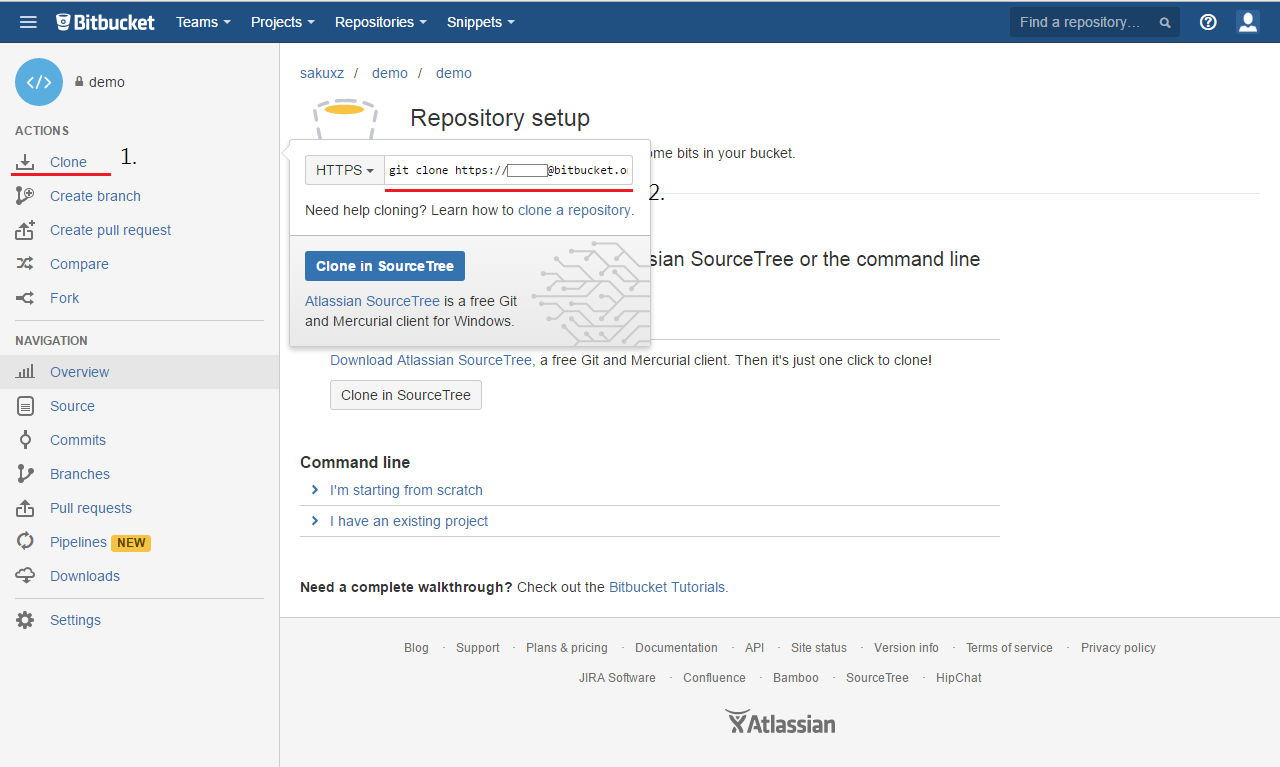
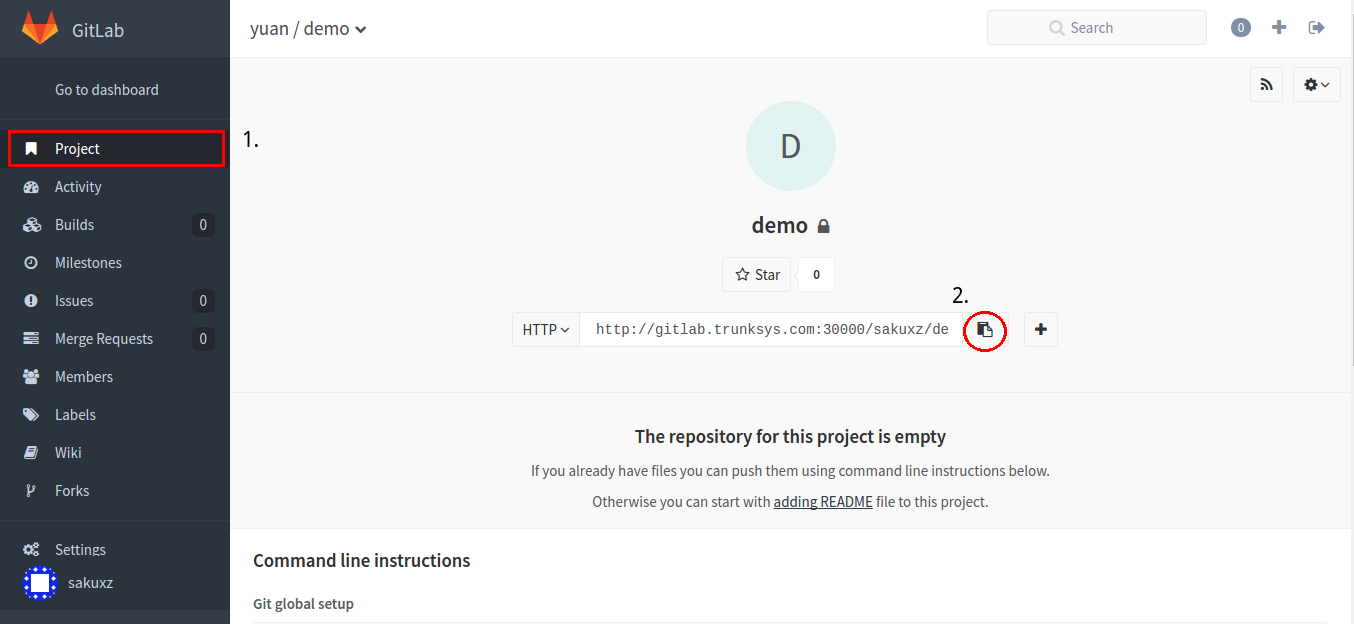
fix some and change bitbucket to gitlab

diff --git a/clone/README.md b/clone/README.md
@@ -6,21 +6,21 @@
 
 ## 取出遠端專案
 
-> 以 bitbucket 上代管的遠端數據庫為例
+> 以 GitLab 上代管的遠端數據庫為例
 
 #### 取的遠端數據庫網址
 
 ![clone example](./clone.png)
 
-1. 點擊 bitbucket 側邊選單上的 Clone
-2. 複製指令
+1. 點擊 GitLab 側邊選單上的 Project，找到你需要的專案
+2. 點擊按鈕複製 repository url
 
 #### 開啟 SourceTree 進行 Clone 操作
 
 ![clone example](./clone2.png)
 
 3. 點擊 SourceTree 工具攔上的 Clone/New
-4. 貼上剛剛複製之指令
+4. 貼上剛剛複製之 repository url
 5. 設定本地數據庫放置資料夾（Optional）
 6. 點擊 Clone 按鈕
 
@@ -29,11 +29,3 @@
 `git clone /path/to/repository`
 
 `git clone username@host:/path/to/repository`
-
-
-## 練習
-
-1. 進入網址 <https://github.com/agileworks-tw/git-hello-world>
-2. 取得 https git url
-3. 執行 `git clone <https git url>`
-4. 確認專案以複製完成

diff --git a/branch/README.md b/branch/README.md
@@ -53,25 +53,3 @@
 #### 此操作對應之 git 指令
 
 `git push origin <branch>`
-
-
-## 練習
-
-### 創建 git 版本控制專案
-
-1. 新增資料夾 git-tutorial
-2. 進入 git-tutorial 資料夾
-2. 新增檔案 README.md
-3. 執行 `git init` 初始化專案
-4. 執行 `git add .` 加入所有變更的檔案
-5. 執行 git commit -m 'init'
-
-
-### 建立分支
-
-1. 執行 `git branch develop`
-2. 切換到 develop 分支 `git checkout develop`
-3. 修改 README.md 新增 `hello develop branch`
-4. 執行 git commit -m 'add develop branch'
-5. 執行 `git log --graph --oneline --decorate --all`
-6. 確認已有新的分支產生

diff --git a/push/README.md b/push/README.md
@@ -18,4 +18,5 @@ push 提交到遠端數據庫前，您可以在您的本地端分支任意地提
 ## 本章節操作對應之 git 指令
 
 `git push -u origin master`
+
 `git push`
